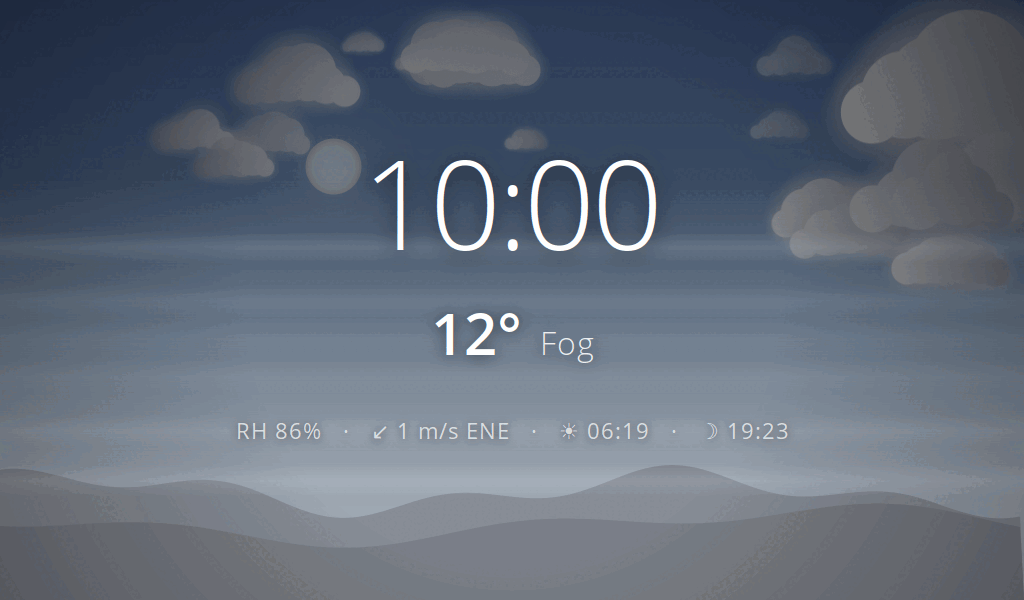
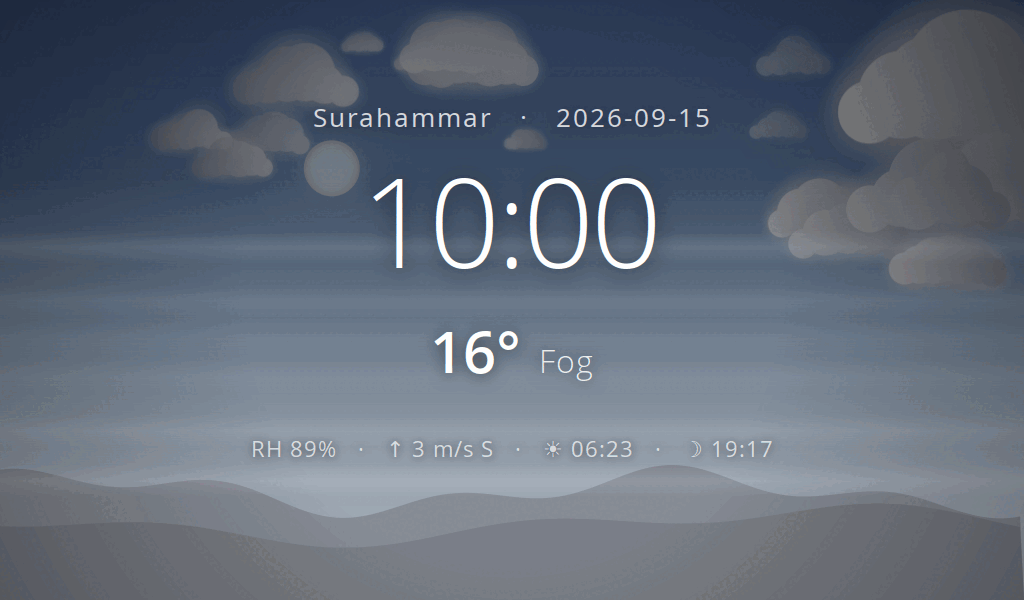
breeze: show where we are and what day it is
A weather display that says neither the place nor the date is missing
two of the three things anyone glances at it for.

Both screens now name the place, taken from the geocoder's own spelling
rather than what was typed, so -l Sweden,Stockholm reads as Stockholm.
The weather screen carries the date above the clock, ISO by default;
--date-format takes iso, long, short, us, dmy, none, or any strftime
string of your own.  Note that long and short follow the locale, so
they read in Swedish on a Swedish desktop and English in the container.

The forecast loses its "Next 12 hours" heading, which said what twelve
hourly columns and a temperature curve already say.  The place takes
that line at two thirds the size, so the chart gains by the trade: the
curve has half again the height it had.

While here: --weather no longer marks the reading valid.  Forcing a
condition over a fetch that had failed put a zero temperature and a
sunrise of 00:00 on screen as though they were real.

diff --git a/breeze/breeze.c b/breeze/breeze.c
@@ -31,6 +31,7 @@ typedef struct {
 	GtkWidget *stack;
 	GtkWidget *drawing_area;
 	GtkWidget *forecast_area;
+	GtkWidget *header_label;
 	GtkWidget *time_label;
 	GtkWidget *temp_label;
 	GtkWidget *desc_label;
@@ -52,6 +53,10 @@ typedef struct {
 	char **web_urls;
 	int url_count;
 	int current_url;
+
+	/* Where we are, as the place spells it, and how to write the date */
+	char place[64];
+	const char *date_format;
 
 	/* Second screen: the hours ahead */
 	gboolean forecast;
@@ -99,6 +104,13 @@ static const char *css_style = "label.overlay-time,"
                                "label.overlay-desc,"
                                "label.overlay-detail {"
                                "  font-family: \"Open Sans\", \"DejaVu Sans\", sans-serif;"
+                               "}"
+                               "label.overlay-header {"
+                               "  color: rgba(255,255,255,0.80);"
+                               "  font-size: 26px;"
+                               "  font-weight: 300;"
+                               "  letter-spacing: 2px;"
+                               "  text-shadow: 0 2px 8px rgba(0,0,0,0.55);"
                                "}"
                                "label.overlay-time {"
                                "  color: white;"
@@ -154,11 +166,24 @@ static void apply_css(void)
 static void update_clock_label(void)
 {
 	time_t now = time(NULL);
-	struct tm *tm = localtime(&now);
-	char buf[16];
+	struct tm tm;
+	char buf[16], date[64], header[128];
 
-	snprintf(buf, sizeof(buf), "%02d:%02d", tm->tm_hour, tm->tm_min);
+	localtime_r(&now, &tm);
+	snprintf(buf, sizeof(buf), "%02d:%02d", tm.tm_hour, tm.tm_min);
 	gtk_label_set_text(GTK_LABEL(app.time_label), buf);
+
+	date[0] = '\0';
+	if (app.date_format && app.date_format[0])
+		strftime(date, sizeof(date), app.date_format, &tm);
+
+	/* Where and when, on one quiet line above the clock */
+	if (app.place[0] && date[0])
+		snprintf(header, sizeof(header), "%s   \u00B7   %s", app.place, date);
+	else
+		snprintf(header, sizeof(header), "%s%s", app.place, date);
+
+	gtk_label_set_text(GTK_LABEL(app.header_label), header);
 }
 
 /*
@@ -187,7 +212,11 @@ static void apply_demo_weather(void)
 	if (app.demo_weather < 0)
 		return;
 
-	app.weather.valid = true;
+	/*
+	 * Paint the condition over whatever was fetched, but do not call
+	 * a failed fetch valid: that put a zero temperature and a sunrise
+	 * of 00:00 on screen as though they were real.
+	 */
 	app.weather.type = (WeatherType)app.demo_weather;
 	app.weather.cloudcover = app.demo_cover;
 	app.weather.intensity = 0.8;
@@ -244,7 +273,7 @@ static gboolean on_draw_forecast(GtkWidget *widget, cairo_t *cr, gpointer data)
 	(void)data;
 
 	anim_draw(&app.anim, cr);
-	forecast_draw(&app.weather, cr, app.anim.width, app.anim.height);
+	forecast_draw(&app.weather, app.place, cr, app.anim.width, app.anim.height);
 	return FALSE;
 }
 
@@ -601,6 +630,10 @@ static GtkWidget *create_weather_view(void)
 
 	/* Overlay labels, in three tiers: the clock, then the conditions,
 	 * then everything secondary on one quiet line */
+	app.header_label = gtk_label_new("");
+	gtk_widget_set_halign(app.header_label, GTK_ALIGN_CENTER);
+	gtk_style_context_add_class(gtk_widget_get_style_context(app.header_label), "overlay-header");
+
 	app.time_label = gtk_label_new("--:--");
 	gtk_widget_set_halign(app.time_label, GTK_ALIGN_CENTER);
 	gtk_style_context_add_class(gtk_widget_get_style_context(app.time_label), "overlay-time");
@@ -629,6 +662,7 @@ static GtkWidget *create_weather_view(void)
 	gtk_widget_set_halign(vbox, GTK_ALIGN_CENTER);
 	gtk_widget_set_valign(vbox, GTK_ALIGN_CENTER);
 	app.overlay_vbox = vbox;
+	gtk_box_pack_start(GTK_BOX(vbox), app.header_label, FALSE, FALSE, 0);
 	gtk_box_pack_start(GTK_BOX(vbox), app.time_label, FALSE, FALSE, 0);
 	gtk_box_pack_start(GTK_BOX(vbox), conditions, FALSE, FALSE, 6);
 	gtk_box_pack_start(GTK_BOX(vbox), app.detail_label, FALSE, FALSE, 22);
@@ -690,6 +724,8 @@ static void usage(const char *name)
 	       "      --url URL                 Web page URL (repeatable for carousel)\n"
 	       "      --carousel-weather SECS   Weather display time in carousel mode (default: 10)\n"
 	       "      --carousel-url SECS       URL display time in carousel mode (default: 30)\n"
+	       "      --date-format FMT         iso, long, short, us, dmy, none, or any\n"
+	       "                                strftime format (default: iso)\n"
 	       "      --forecast                Second screen with the next 12 hours\n"
 	       "      --carousel-forecast SECS  Forecast display time (default: as weather)\n"
 	       "      --url-script JS|FILE      JavaScript to run over each page once it\n"
@@ -708,6 +744,7 @@ static void usage(const char *name)
 	       "  WEB_URL                       Comma-separated list of URLs\n"
 	       "  CAROUSEL_WEATHER              Same as --carousel-weather\n"
 	       "  CAROUSEL_URL                  Same as --carousel-url\n"
+	       "  DATE_FORMAT                   Same as --date-format\n"
 	       "  FORECAST                      Second screen: 1, true, yes, or on\n"
 	       "  CAROUSEL_FORECAST             Same as --carousel-forecast\n"
 	       "  URL_SCRIPT                    Same as --url-script\n"
@@ -763,6 +800,33 @@ static double parse_zoom(const char *arg)
 	}
 
 	return z;
+}
+
+static const struct {
+	const char *name;
+	const char *fmt;
+} date_formats[] = {
+	{ "iso",   "%Y-%m-%d"   }, /* 2026-09-15 */
+	{ "long",  "%A %-d %B"  }, /* Tuesday 15 September */
+	{ "short", "%a %-d %b"  }, /* Tue 15 Sep */
+	{ "us",    "%m/%d/%Y"   }, /* 09/15/2026 */
+	{ "dmy",   "%-d/%-m/%Y" }, /* 15/9/2026 */
+	{ "none",  ""           }, /* no date at all */
+};
+
+/* A name from the table, or anything with a % in it taken as strftime */
+static const char *parse_date_format(const char *arg)
+{
+	if (strchr(arg, '%'))
+		return arg;
+
+	for (size_t i = 0; i < sizeof(date_formats) / sizeof(date_formats[0]); i++) {
+		if (g_ascii_strcasecmp(arg, date_formats[i].name) == 0)
+			return date_formats[i].fmt;
+	}
+
+	fprintf(stderr, "Unknown date format \"%s\"\n", arg);
+	exit(1);
 }
 
 static int parse_weather(const char *name)
@@ -843,6 +907,11 @@ static void parse_args(int argc, char *argv[])
 	app.fullscreen = env_bool("FULLSCREEN");
 	app.forecast = env_bool("FORECAST");
 
+	app.date_format = date_formats[0].fmt; /* iso */
+	env = env_str("DATE_FORMAT");
+	if (env)
+		app.date_format = parse_date_format(env);
+
 	env = env_str("URL_SCRIPT");
 	if (env)
 		app.url_script = load_script(env);
@@ -858,6 +927,7 @@ static void parse_args(int argc, char *argv[])
 
 	static const struct option long_opts[] = {
 		{ "carousel-forecast", required_argument, NULL, 'G' },
+		{ "date-format",       required_argument, NULL, 'd' },
 		{ "carousel-url",      required_argument, NULL, 'c' },
 		{ "carousel-weather",  required_argument, NULL, 'C' },
 		{ "forecast",          no_argument,       NULL, 'F' },
@@ -885,6 +955,7 @@ static void parse_args(int argc, char *argv[])
 			app.carousel_weather = atoi(optarg);
 			carousel_set = TRUE;
 			break;
+		case 'd': app.date_format = parse_date_format(optarg); break;
 		case 'F': app.forecast = TRUE; break;
 		case 'G':
 			app.carousel_forecast = atoi(optarg);
@@ -924,7 +995,7 @@ static void parse_args(int argc, char *argv[])
 	if (location) {
 		double lat, lon;
 
-		if (weather_geocode(location, &lat, &lon)) {
+		if (weather_geocode(location, &lat, &lon, app.place, sizeof(app.place))) {
 			app.latitude = lat;
 			app.longitude = lon;
 			fprintf(stderr, "Location \"%s\" -> %.4f, %.4f\n", location, lat, lon);

diff --git a/breeze/forecast.c b/breeze/forecast.c
@@ -24,9 +24,10 @@ static void rounded_box(cairo_t *cr, double x, double y, double w, double h, dou
 	cairo_close_path(cr);
 }
 
-/* Pango rather than cairo's toy text, to match the rest of the display */
-static void text_at(cairo_t *cr, double cx, double y, const char *str, double size, gboolean bold,
-                    double alpha)
+/* Pango rather than cairo's toy text, to match the rest of the display.
+ * Centred on cx, or left aligned at it when centre is FALSE. */
+static void text_aligned(cairo_t *cr, double cx, double y, const char *str, double size, gboolean bold,
+                         double alpha, gboolean centre)
 {
 	PangoLayout *layout = pango_cairo_create_layout(cr);
 	PangoFontDescription *desc;
@@ -42,9 +43,15 @@ static void text_at(cairo_t *cr, double cx, double y, const char *str, double si
 	pango_layout_get_pixel_size(layout, &w, &h);
 
 	cairo_set_source_rgba(cr, 1.0, 1.0, 1.0, alpha);
-	cairo_move_to(cr, cx - w / 2.0, y);
+	cairo_move_to(cr, centre ? cx - w / 2.0 : cx, y);
 	pango_cairo_show_layout(cr, layout);
 	g_object_unref(layout);
+}
+
+static void text_at(cairo_t *cr, double cx, double y, const char *str, double size, gboolean bold,
+                    double alpha)
+{
+	text_aligned(cr, cx, y, str, size, bold, alpha, TRUE);
 }
 
 /*
@@ -117,14 +124,14 @@ static void draw_glyph(cairo_t *cr, double cx, double cy, double s, WeatherType 
 	}
 }
 
-void forecast_draw(const WeatherData *weather, cairo_t *cr, int width, int height)
+void forecast_draw(const WeatherData *weather, const char *place, cairo_t *cr, int width, int height)
 {
 	double m = width * PANEL_MARGIN;
 	double x = m, w = width - 2 * m;
 	double y = height * 0.16, h = height * 0.68;
 	double slot = w / (weather->forecast_count ? weather->forecast_count : 1);
 	double lo = 1e9, hi = -1e9;
-	double curve_top = y + h * 0.42, curve_bot = y + h * 0.64;
+	double curve_top = y + h * 0.38, curve_bot = y + h * 0.66;
 	double bar_base = y + h * 0.90;
 	double scale = height / 600.0;
 	int n = weather->forecast_count;
@@ -139,7 +146,11 @@ void forecast_draw(const WeatherData *weather, cairo_t *cr, int width, int heigh
 	cairo_set_source_rgba(cr, 0.06, 0.08, 0.14, 0.52);
 	cairo_fill(cr);
 
-	text_at(cr, width / 2.0, y + h * 0.02, "Next 12 hours", 19 * scale, TRUE, 0.80);
+	/* No "Next 12 hours" heading: twelve hours and a temperature curve
+	 * say that for themselves.  The place takes the line instead, at
+	 * two thirds the size, so the chart still gains by the trade. */
+	if (place && place[0])
+		text_at(cr, width / 2.0, y + h * 0.025, place, 15 * scale, FALSE, 0.60);
 
 	for (int i = 0; i < n; i++) {
 		double t = weather->forecast[i].temperature;
@@ -205,9 +216,9 @@ void forecast_draw(const WeatherData *weather, cairo_t *cr, int width, int heigh
 		 * read as one another.
 		 */
 		snprintf(buf, sizeof(buf), "%02d", f->hour);
-		text_at(cr, cx, y + h * 0.12, buf, 16 * scale, FALSE, 0.85);
+		text_at(cr, cx, y + h * 0.10, buf, 16 * scale, FALSE, 0.85);
 
-		draw_glyph(cr, cx, y + h * 0.26, 22 * scale, f->type, night);
+		draw_glyph(cr, cx, y + h * 0.22, 22 * scale, f->type, night);
 
 		/* Nothing else lives down here now, so a number can only be mm */
 		if (f->precipitation >= 0.05) {

diff --git a/breeze/weather.c b/breeze/weather.c
@@ -309,7 +309,19 @@ WeatherData weather_fetch(double latitude, double longitude)
 	return data;
 }
 
-bool weather_geocode(const char *location, double *latitude, double *longitude)
+/* The place's own spelling of itself, which is what belongs on screen */
+static void place_name(cJSON *item, char *name, size_t len)
+{
+	cJSON *n = cJSON_GetObjectItem(item, "name");
+
+	if (!name || !len)
+		return;
+
+	if (n && n->valuestring)
+		snprintf(name, len, "%s", n->valuestring);
+}
+
+bool weather_geocode(const char *location, double *latitude, double *longitude, char *name, size_t len)
 {
 	SoupSession *session;
 	SoupMessage *msg;
@@ -398,6 +410,7 @@ bool weather_geocode(const char *location, double *latitude, double *longitude)
 			if (lat && lon) {
 				*latitude = lat->valuedouble;
 				*longitude = lon->valuedouble;
+				place_name(item, name, len);
 				found = true;
 			}
 		}
@@ -410,6 +423,7 @@ bool weather_geocode(const char *location, double *latitude, double *longitude)
 			if (lat && lon) {
 				*latitude = lat->valuedouble;
 				*longitude = lon->valuedouble;
+				place_name(item, name, len);
 				found = true;
 			}
 		}

diff --git a/breeze/weather.h b/breeze/weather.h
@@ -2,6 +2,7 @@
 #define WEATHER_H
 
 #include <stdbool.h>
+#include <stddef.h>
 
 typedef enum {
 	WEATHER_CLEAR,
@@ -68,8 +69,10 @@ const char *weather_wind_arrow(double degrees);
 /*
  * Geocode a location string to lat/lon using Open-Meteo's geocoding API.
  * Accepts "City" or "Country,City" (e.g., "Stockholm" or "Sweden,Stockholm").
- * Returns true on success and fills in *latitude and *longitude.
+ * Returns true on success and fills in *latitude and *longitude, and the
+ * place's own name into name, which is what a display should show:
+ * "Sweden,Stockholm" comes back as "Stockholm".
  */
-bool weather_geocode(const char *location, double *latitude, double *longitude);
+bool weather_geocode(const char *location, double *latitude, double *longitude, char *name, size_t len);
 
 #endif /* WEATHER_H */

diff --git a/breeze/forecast.h b/breeze/forecast.h
@@ -8,6 +8,6 @@
  * Draw the hours ahead over whatever is already on the context, which
  * is the same animated sky the current conditions sit on.
  */
-void forecast_draw(const WeatherData *weather, cairo_t *cr, int width, int height);
+void forecast_draw(const WeatherData *weather, const char *place, cairo_t *cr, int width, int height);
 
 #endif /* FORECAST_H */

diff --git a/breeze/README.md b/breeze/README.md
@@ -88,6 +88,8 @@ Options:
       --url URL                 Web page URL (repeatable for carousel)
       --carousel-weather SECS   Weather display time in carousel mode (default: 10)
       --carousel-url SECS       URL display time in carousel mode (default: 30)
+      --date-format FMT         iso, long, short, us, dmy, none, or any
+                                strftime format (default: iso)
       --forecast                Second screen with the next 12 hours
       --url-script JS|FILE      JavaScript to run over each page once it
                                 has loaded, inline or read from a file
@@ -114,6 +116,26 @@ Pass `--carousel-weather 0` for a display that only ever moves when it
 is touched, each screen staying put until the next tap.
 
 Press Escape to exit.
+
+### Place and Date
+
+Both screens name the place, and the weather screen carries the date
+above the clock.  The name is the one the place uses for itself, so
+`-l Sweden,Stockholm` shows as `Stockholm`; without `--location` there
+is no name to show and the line carries only the date.
+
+`--date-format` takes `iso` (the default, `2026-09-15`), `long`
+(`Tuesday 15 September`), `short` (`Tue 15 Sep`), `us` (`09/15/2026`),
+`dmy` (`15/9/2026`), or `none` to leave the date off.  Anything
+containing a `%` is handed to strftime as it stands:
+
+```bash
+./breeze -l Surahammar --date-format "%A, week %V"
+```
+
+`long` and `short` spell the day and month according to the locale, so
+they read in Swedish on a Swedish desktop and in English in the
+container, which has no locale set.  `iso` is the same everywhere.
 
 ### The Next 12 Hours
 
@@ -207,6 +229,7 @@ configured.
 | `CAROUSEL_WEATHER` | `--carousel-weather` | Seconds to show the weather view              |
 | `CAROUSEL_FORECAST`| `--carousel-forecast`| Seconds to show the forecast screen           |
 | `CAROUSEL_URL`     | `--carousel-url`     | Seconds to show each URL                      |
+| `DATE_FORMAT`      | `--date-format`      | How to write the date, or `none`              |
 | `FORECAST`         | `--forecast`         | Second screen: `1`, `true`, `yes`, or `on`    |
 | `URL_SCRIPT`       | `--url-script`       | JavaScript to run over each loaded page       |
 | `ZOOM`             | `--zoom`             | Web view zoom factor                          |
